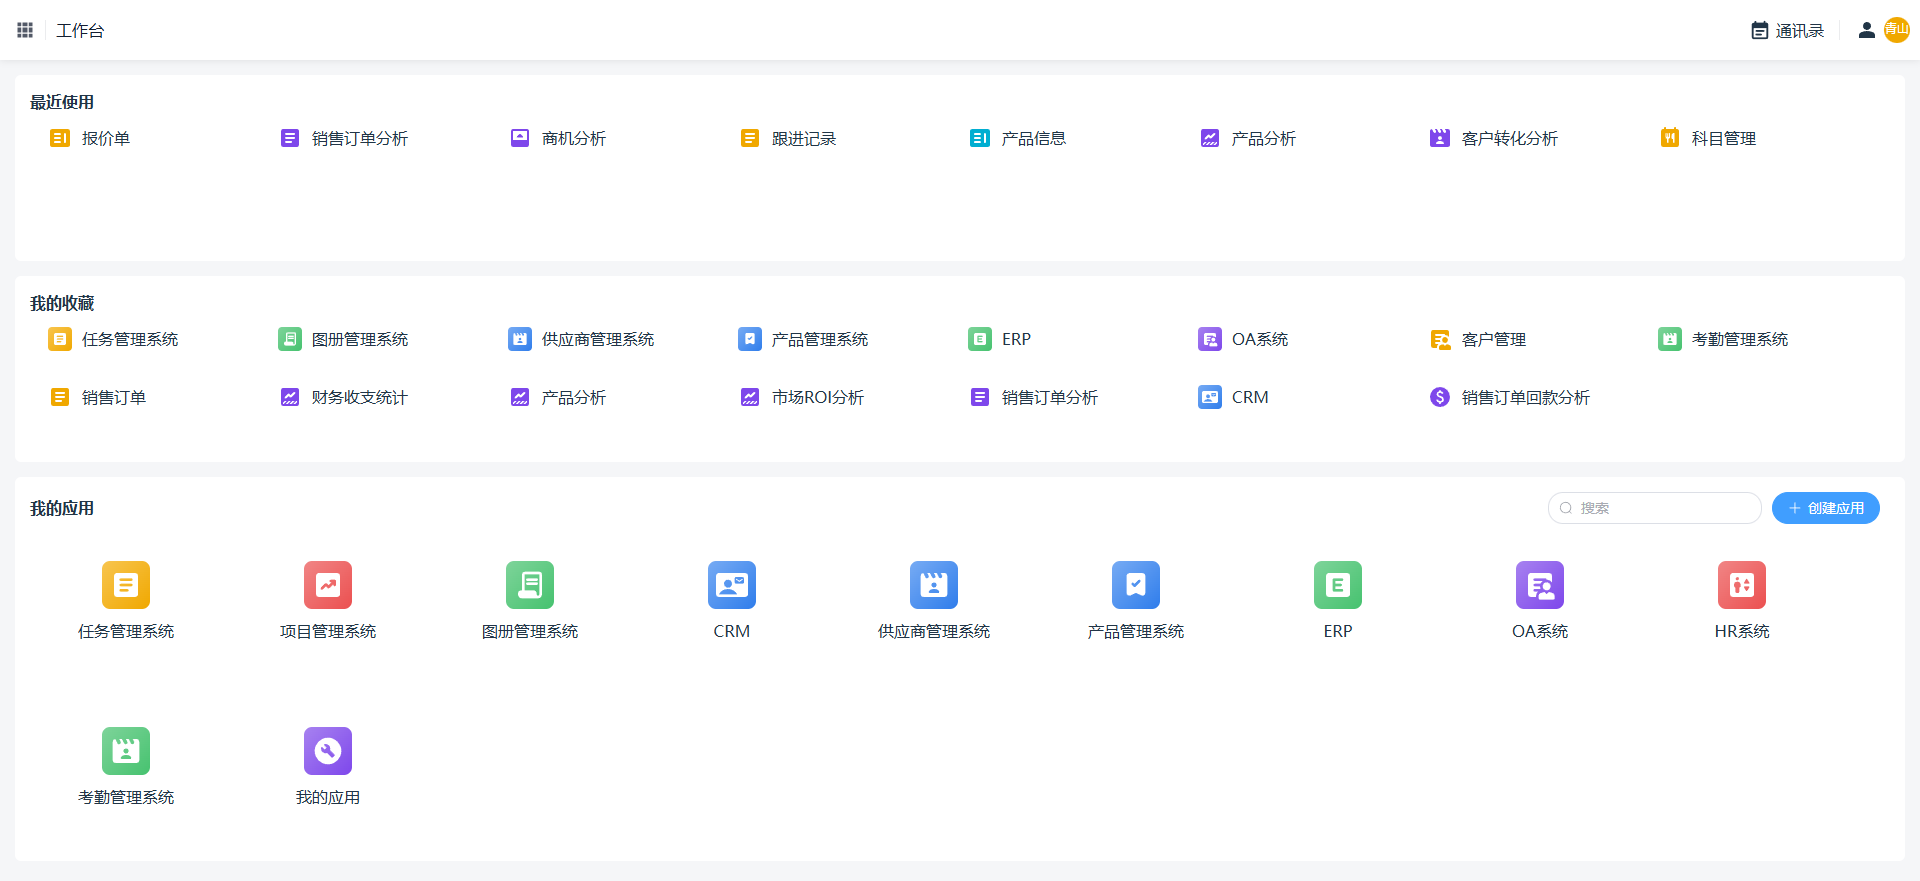
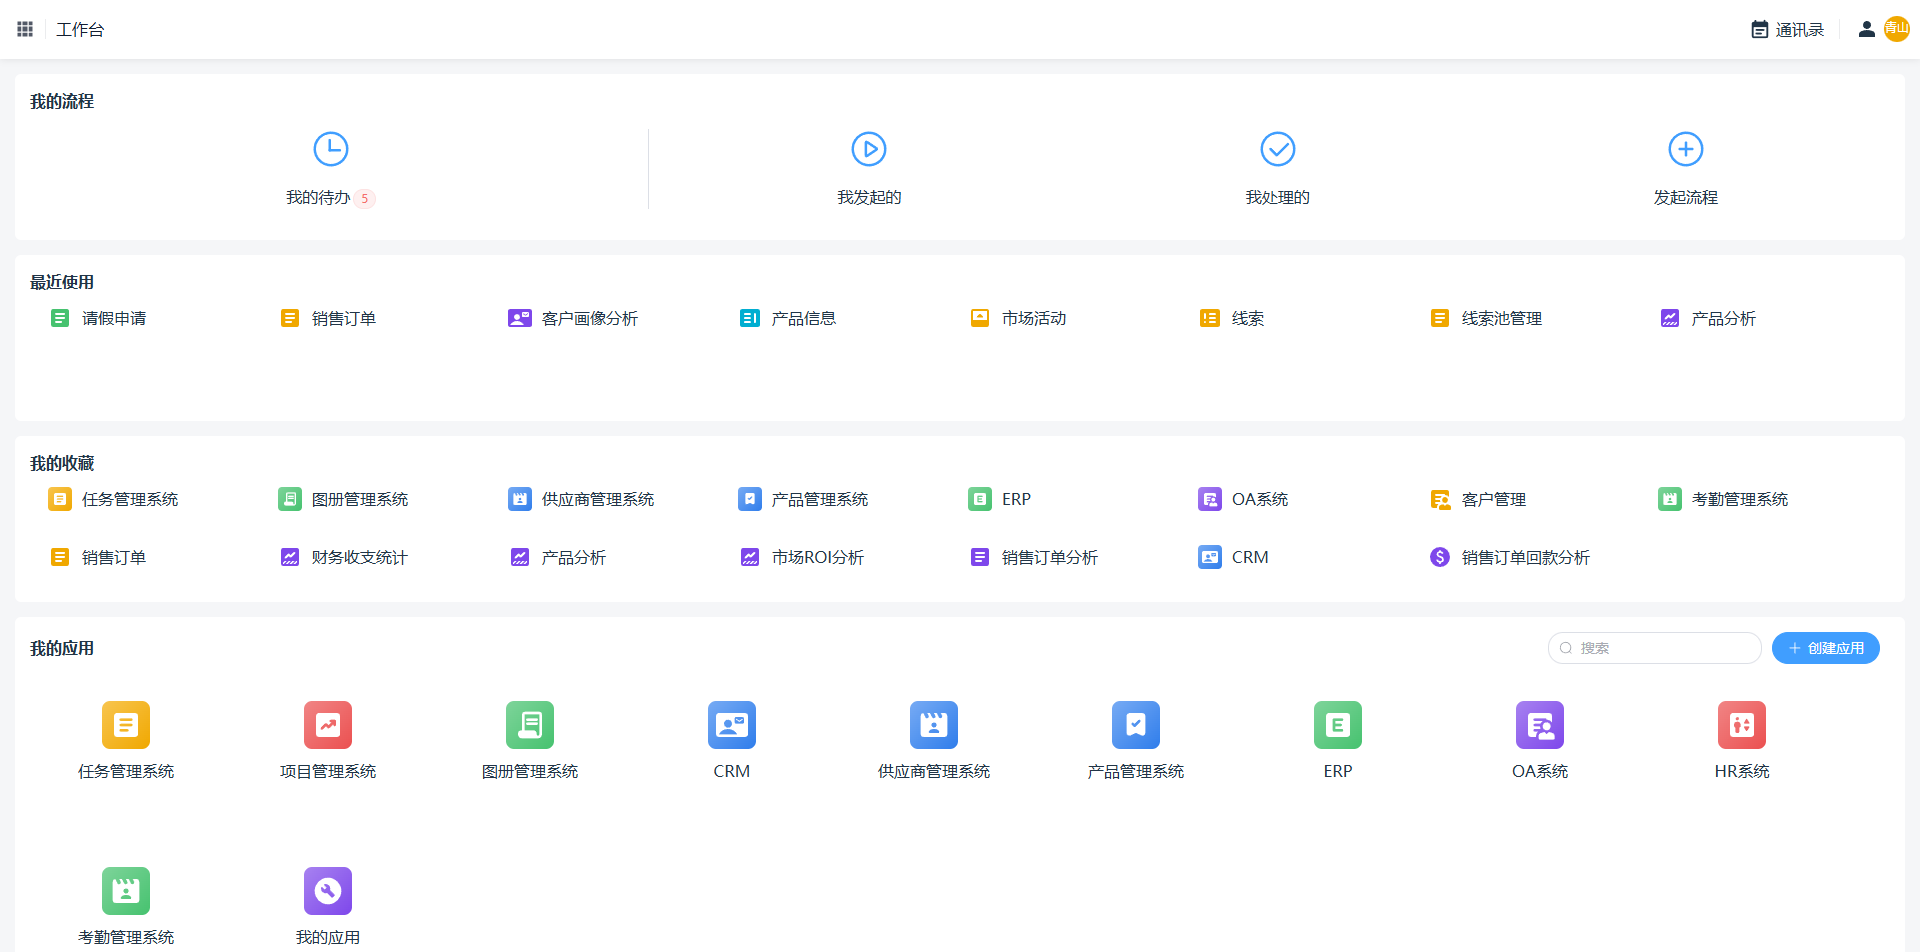
零代码平台文档增加流程章节

diff --git a/zerocode/index.md b/zerocode/index.md
@@ -33,10 +33,10 @@ features:
     details: 灵活定制数据查询视角。支持对表单数据进行多条件筛选、排序与分组，更可一键关联查询其他表单信息，打破数据孤岛。让业务人员快速获取清晰、准确的列表数据，满足多样化管理与分析需求。
   - title: 仪表盘
     details: 将数据转化为直观图表。自由配置多维看板，实时监控业务核心指标。支持钻取与联动分析，助力管理者一目了然，驱动科学决策。
-  - title: 公式
-    details: 像Excel一样轻松定义计算逻辑。内置丰富函数，实现数据自动校验、关联计算与动态更新。确保业务规则准确执行，大幅提升数据质量与处理效率。
+  - title: 流程
+    details: 通过直观的拖拉拽方式快速搭建业务流程，简化流程设置工作。支持将可视化表单直接作为流程数据来源，方便与业务数据关联。流程中心集中管理来自企业各业务系统的全量流程数据，实现统一监控与高效协同。
   - title: 可视化设计器
-    details: “所见即所得”的应用构建画布。通过自由拖拽组件，无需代码即可个性化设计页面布局与交互样式，快速搭建符合企业品牌与业务场景的专业界面。
+    details: “所见即所得”的应用构建画布。表单、仪表盘、公式、流程，通过自由拖拽组件，无需代码即可个性化设计页面布局与交互样式，快速搭建符合企业品牌与业务场景的专业界面。
   - title: 组织架构
     details: 一键同步企业部门与员工信息。基于架构实现精细的权限分配与流程节点配置，确保数据安全与流程顺畅，支撑复杂的跨部门协同与分级管理需求。
   - title: 工作台
@@ -95,6 +95,19 @@ features:
 ## 仪表盘设计器
 <img src="./image/06-仪表盘-设计器.png" class="pc-img"/>
 
+## 流程
+流程中心 统一企业流程入口
+<img src="../flow/image/流程中心-发起流程.png" class="pc-img"/>
+发起流程
+<img src="../flow/image/流程中心-发起流程-提交.png" class="pc-img"/>
+
+处理流程
+<img src="../flow/image/流程中心-处理表单.png" class="pc-img"/>
+流转图
+<img src="../flow/image/流程中心-处理表单-流转图.png" class="pc-img"/>
+
+流程设置
+<img src="../flow/image/流程设置-请假申请.png" class="pc-img"/>
 
 <style scoped>
 .pc-img {
